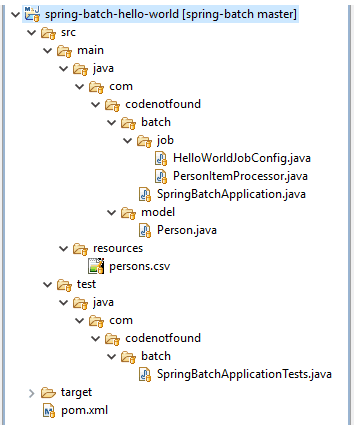
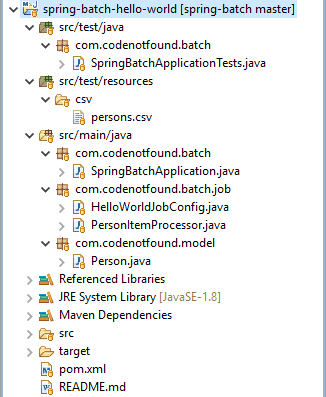
update post

Changed region(s): [[0.0, 0.0, 0.9509, 1.0], [0.9816, 0.0, 1.0, 1.0]]

diff --git a/_posts/spring-batch/2018-10-20-spring-batch-hello-world-example.md b/_posts/spring-batch/2018-10-20-spring-batch-hello-world-example.md
@@ -158,7 +158,7 @@ public class SpringBatchApplication {
 
 Before you process data it is generally expected that you map it to a domain object.
 
-In our example, the input data is stored in a <var>src/main/resources/persons.csv</var> file.
+In our example, the input data is stored in a <var>src/test/resources/csv/persons.csv</var> file.
 
 Each line in the file contains a comma-separated first and last name.
 
@@ -196,7 +196,7 @@ public class Person {
 
   @Override
   public String toString() {
-    return "person[firstName=" + firstName + " ,lastName=" + lastName + "]";
+    return firstName + " " + lastName;
   }
 }
 {% endhighlight %}
@@ -288,7 +288,7 @@ public class HelloWorldJobConfig {
   @Bean
   public FlatFileItemReader<Person> reader() {
     return new FlatFileItemReaderBuilder<Person>().name("personItemReader")
-        .resource(new ClassPathResource("persons.csv")).delimited()
+        .resource(new ClassPathResource("csv/persons.csv")).delimited()
         .names(new String[] {"firstName", "lastName"}).targetType(Person.class).build();
   }
 
@@ -331,8 +331,8 @@ public class PersonItemProcessor implements ItemProcessor<Person, String> {
   @Override
   public String process(Person person) throws Exception {
     String greeting = "Hello " + person.getFirstName() + " " + person.getLastName() + "!";
-    LOGGER.info("converting {} into {}", person, greeting);
 
+    LOGGER.info("converting '{}' into '{}'", person, greeting);
     return greeting;
   }
 }
